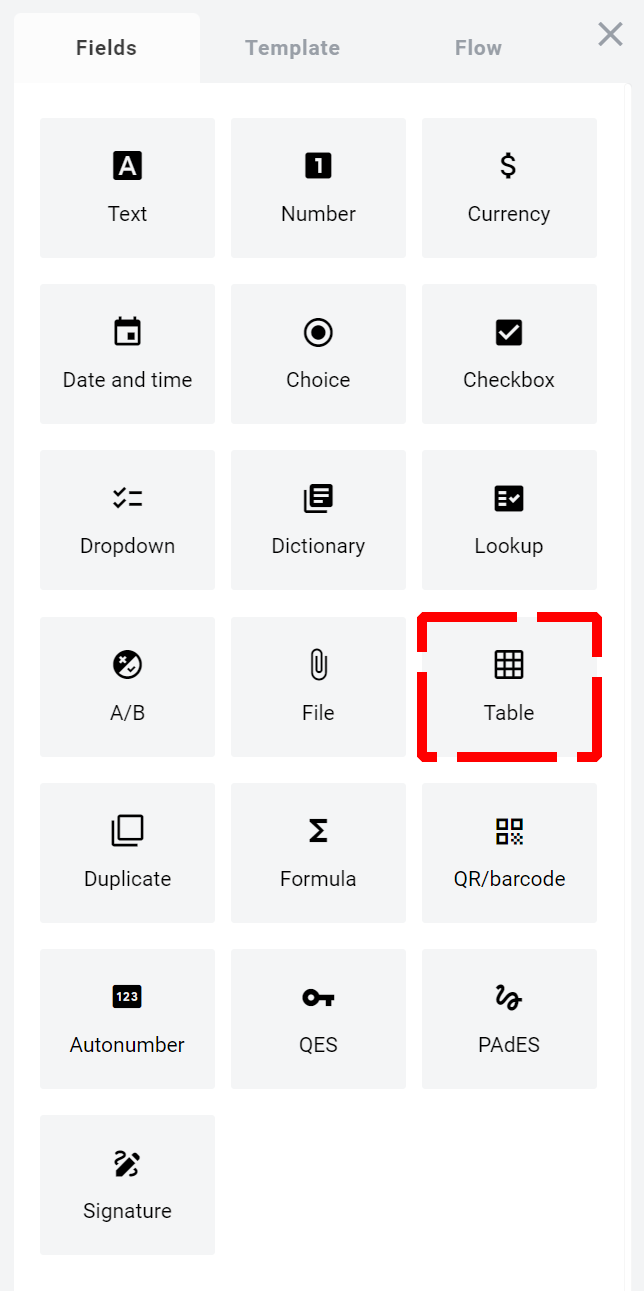
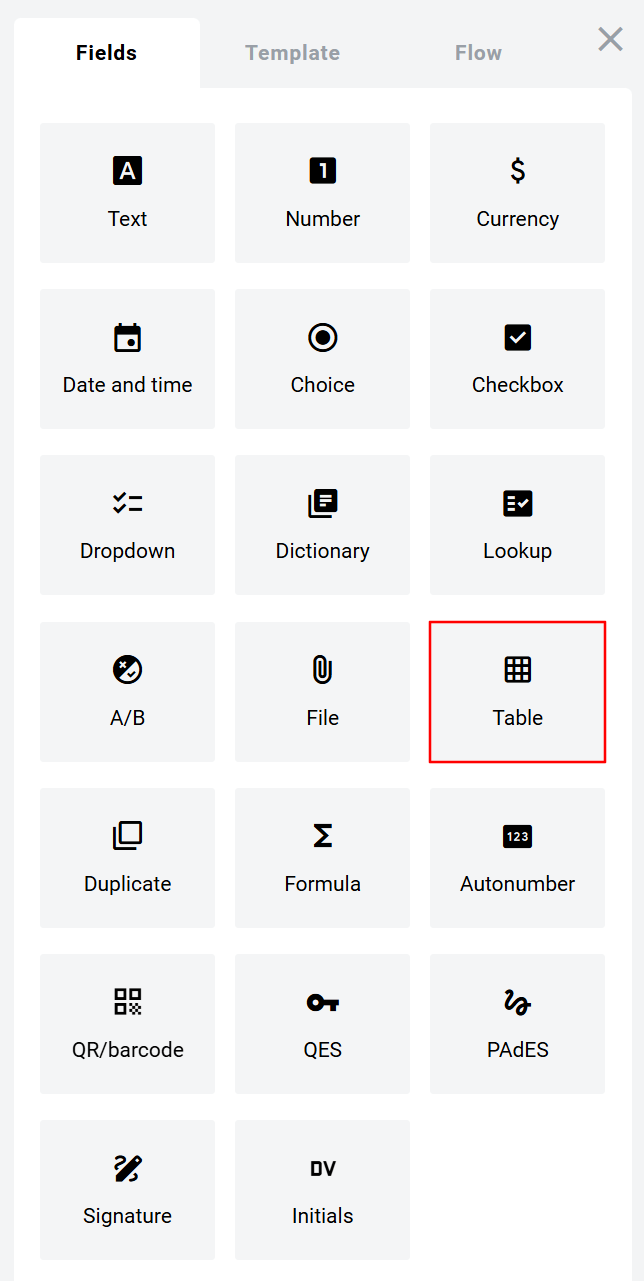
Initials field

diff --git a/docs/source/pages/howToWorkWithPlatform/mainApplication/templateList/templateManagement/documentManagementOnTemplate/fields/signature/signature.rst b/docs/source/pages/howToWorkWithPlatform/mainApplication/templateList/templateManagement/documentManagementOnTemplate/fields/signature/signature.rst
@@ -9,22 +9,22 @@ This field allows you to place an e-ink signature on the document.
 How to add signature field to the document
 ==========================================
 
-1. To add field to the document, use one of field adding methods with field icon in the Fields tab of template editor menu.
+1. To add field to the document, use one of field adding methods with field icon in the Fields tab of template editor menu
 
 .. image:: pic_signature/signatureIcon.png
    :width: 600
    :align: center
 
-2. Field creation form will appear, where you should set field attributes.
+2. Field creation form will appear, where you should set field attributes
 
 .. image:: pic_signature/signatureCreate.png
    :width: 600
    :align: center
 
 3. Name - this is a name of a field
-4. Role name - this is a role which will be assgined to fill this field.
-5. Placeholder - this text will be shown in the text box before anything is filled in (can be left empty, field name will be used instead).
-6. Show signature details - displaying signature details on the envelope. If enabled, there will be the date, mailbox or email address of the signer, signature hash, and 'Signed by [instance name]'. If disabled, only the signature hash and and 'Signed by [instance name]' will be shown.
+4. Role name - this is a role which will be assgined to fill this field
+5. Placeholder - this text will be shown inside the field before it is filled in (can be left empty; field`s name will be used instead)
+6. Show signature details - displaying signature details on the envelope. If enabled, there will be the date, mailbox or email address of the signer, signature hash, and 'Signed by [instance name]'. If disabled, only the signature hash and and 'Signed by [instance name]' will be shown
 
 When all attributes are set, you can click "Save" button and field will be added. You can click field to see its properties and update them. Also you can delete the field in same menu.
 
@@ -35,14 +35,14 @@ When all attributes are set, you can click "Save" button and field will be added
 How to fill a signature field in the envelope
 =============================================
 
-1. Open envelope where signature field is located.
-2. Click on signature field
+1. Open envelope where signature field is located
+2. Click on the signature field
 
 .. image:: pic_signature/signatureEnvelope.png
    :width: 600
    :align: center
 
-3. Window will appear.
+3. Window will appear
 
 .. image:: pic_signature/signatureDraw.png
    :width: 600
@@ -50,15 +50,15 @@ How to fill a signature field in the envelope
 
 .. note:: If you have saved e-ink signature in your profile settings page, window will not open and signature will be automatically applied.
 
-4. Draw your signature on the empty area by pressing left side on the mouse and dragging it around. You have to draw at least 0.5 sec to complete validation of the field. Note that you can change color or input text instead of drawing on Text tab.
+4. Draw your signature on the empty area by pressing left side on the mouse and dragging it around. You have to draw at least 0.5 sec to complete validation of the field. Note that you can change color or input text instead of drawing on Text tab
 
 .. image:: pic_signature/signatureDrawn.png
    :width: 600
    :align: center
 
-5. You can reset drawing area with "Clear" button.
-6. Click "Sign" to insert your signature to the field (can't be empty) and you will see your signature in the document.
-7. Under the signature, you will see its details, depending on whether the "Show signature details" toggle was enabled or not on the template. 
+5. You can reset drawing area with "Clear" button
+6. Click "Sign" to insert your signature to the field (can't be empty) and you will see your signature in the document
+7. Under the signature, you will see its details, depending on whether the "Show signature details" toggle was enabled or not on the template
 
 .. note:: If toggle was enabled - there will be displayed signature hash and 'Signed by [instance name]' and reserved space for date and email address of the signer (it will appear on the document after sending the envelope). If toggle was disabled there will be just signature hash and 'Signed by [instance name]'. 
 
@@ -72,4 +72,4 @@ How to fill a signature field in the envelope
    :width: 600
    :align: center
 
-8. Signature can be changed by clicking on the picture of your signature and repeating steps 3, 4 and 6.
+8. Signature can be changed by clicking on the picture of your signature and repeating steps 3, 4, and 6

diff --git a/docs/source/pages/howToWorkWithPlatform/mainApplication/templateList/templateManagement/documentManagementOnTemplate/fields/initials/initials.rst b/docs/source/pages/howToWorkWithPlatform/mainApplication/templateList/templateManagement/documentManagementOnTemplate/fields/initials/initials.rst
@@ -1,0 +1,41 @@
+==============
+Initials field
+==============
+
+This field allows you to place your initials on the document.
+
+.. hint:: This field can be added to structured and PDF documents.
+
+How to add initials field to the document
+=========================================
+
+1. To add field to the document, use one of field adding methods with field icon in the Fields tab of template editor menu
+
+.. image:: pic_initials/initialsIcon.png
+   :width: 600
+   :align: center
+
+2. Field creation form will appear, where you should set field attributes
+
+.. image:: pic_initials/initialsCreate.png
+   :width: 600
+   :align: center
+
+3. Name - this is a name of a field
+4. Role name - this is a role which will be assgined to fill this field
+5. Placeholder - this text will be shown inside the field before it is filled in (can be left empty; field`s name will be used instead)
+
+When all attributes are set, you can click "Save" button and field will be added. You can click field to see its properties and update them. Also you can delete the field in same menu.
+
+.. image:: pic_initials/initialsEdit.png
+   :width: 600
+   :align: center
+
+How to fill an initials field in the envelope
+=============================================
+
+1. Open envelope where initials field is located
+2. Click on the initials field
+3. Initials will be automatically generated from your first and last name specified in your user profile and set in the field (if you already specified your inityials before, they will be used)
+
+.. note:: If you want to edit your initials, you can click on the filled in initials field. Initials drawing window similar to signature drawing window will open.

diff --git a/docs/source/pages/howToWorkWithPlatform/mainApplication/templateList/templateManagement/documentManagementOnTemplate/fields/dictionary/dictionary.rst b/docs/source/pages/howToWorkWithPlatform/mainApplication/templateList/templateManagement/documentManagementOnTemplate/fields/dictionary/dictionary.rst
@@ -23,7 +23,7 @@ How to add dictionary field to the document
 
 3. Name - this is a name of a field
 4. Role name - this is a role which will be assgined to fill this field
-5. Placeholder - this text will be shown in the input box before anything is filled in (can be left empty, field name will be used instead)
+5. Placeholder - this text will be shown inside the field before it is filled in (can be left empty; field`s name will be used instead)
 6. Optional - this attribute specifies if this field is mandatory to fill
 7. Allow custom values - this attribute specifies if field will allow free text input besides selection from predefined values
 8. Search - this attribute specifies if this field should be eligible for mailbox page search
@@ -40,7 +40,7 @@ How to add dictionary field to the document
 .. note:: Value from this column will be used to find a matching row in a column selected in dictionary during envelope processing flow.
 
 13. Filter by role mailbox - this attribute specifies if filtering should be applied by role (if enabled) or by field value (if disabled)
-14. Field name (changes to role name if previous attribute is enabled) - field which will be used to specify a row by value from column selected in column name (13).
+14. Field name (changes to role name if previous attribute is enabled) - field which will be used to specify a row by value from column selected in column name (13)
 
 .. note:: If filtering by role is enabled and field becomes role name selector, it selects a role mailbox UUID of which will be used to find a matching row in dictionary. In this case, column with mailbox UUIDs should be selected in column name (13) field for matching.
 

diff --git a/docs/source/pages/howToWorkWithPlatform/mainApplication/userProfile/userProfile.rst b/docs/source/pages/howToWorkWithPlatform/mainApplication/userProfile/userProfile.rst
@@ -9,7 +9,7 @@ Settings page
 =============
 
 .. image:: pic_userprofile/tabSettings.png
-   :width: 600
+   :width: 900
    :align: center
 
 1. First name
@@ -22,8 +22,9 @@ Settings page
 8. Email (can not be changed, only copied)
 9. Auto deposit mailbox - specifies which mailbox will be used for incoming envelopes. If disabled - you will have to manually specify mailbox for each incoming envelope
 10. Signature settings - here you can create or update your e-ink signature
-11. Register personal account
-12. Register company account
+11. Initials settings - here you can create or update your initials
+12. Register personal account
+13. Register company account
 
 Do not forget to click on Save changes button after editing anything on this page
 
@@ -102,7 +103,7 @@ Forwarding page
 .. note:: This functionality will be disabled if you do not have 2012 mailbox level permission (Delegate envelopes).
 
 .. image:: pic_userprofile/tabForwarding.png
-   :width: 600
+   :width: 900
    :align: center
 
 In this section you can configure automatic forwarding of all incoming envelopes. To do so:
@@ -122,7 +123,7 @@ Danger zone page
 This page allows you to delete your user account. To open user profile page navigate to https://platform_address/profile?activeTab=dangerzone
 
 .. image:: pic_userprofile/tabDangerZone.png
-   :width: 600
+   :width: 900
    :align: center
 	
 .. note:: Ability to remove own user profile can be restricted in instance settings. In such case there will be no Danger zone tab on Profile information page.

diff --git a/docs/source/pages/howToWorkWithPlatform/mainApplication/templateList/templateManagement/documentManagementOnTemplate/fields/formula/formula.rst b/docs/source/pages/howToWorkWithPlatform/mainApplication/templateList/templateManagement/documentManagementOnTemplate/fields/formula/formula.rst
@@ -40,9 +40,9 @@ How to add formula field to the document
    :align: center
 
 3. Name - this is a name of a field
-4. Placeholder - this text will be shown in the input box before anything is filled in (can be left empty, field name will be used instead)
+4. Placeholder - this text will be shown inside the field before it is filled in (can be left empty; field`s name will be used instead)
 5. Operation - type of operation which will be performed with arguments
-6. Argument (1, 2 and so on, appears after operation is selected) - arguments which will be used for calculation. They are parsed in strict order from first to last. If you will click on argument input, dropdown selector with available fields will appear. Static values can be typed in directly as well.
+6. Argument (1, 2 and so on, appears after operation is selected) - arguments which will be used for calculation. They are parsed in strict order from first to last. If you will click on argument input, dropdown selector with available fields will appear. Static values can be typed in directly as well
 
 .. note:: You can add more then 2 default arguments by clicking "+ add argument" link
 

diff --git a/docs/source/pages/howToWorkWithPlatform/mainApplication/templateList/templateManagement/documentManagementOnTemplate/fields/dropdown/dropdown.rst b/docs/source/pages/howToWorkWithPlatform/mainApplication/templateList/templateManagement/documentManagementOnTemplate/fields/dropdown/dropdown.rst
@@ -23,7 +23,7 @@ How to add dropdown field to the document
 
 3. Name - this is a name of a field
 4. Role name - this is a role which will be assgined to fill this field
-5. Placeholder - this text will be shown in the input box before anything is filled in (can be left empty, field name will be used instead)
+5. Placeholder - this text will be shown inside the field before it is filled in (can be left empty; field`s name will be used instead)
 6. Optional - this attribute specifies if this field is mandatory to fill
 7. Multiselect - this attribute specifies if multiple values can be selected (can not be enabled together with Allow custom value attribute)
 8. Allow custom values - this attribute specifies if field will allow free text input besides selection from predefined values (can not be enabled together with Multiselect attribute)

diff --git a/docs/source/pages/howToWorkWithPlatform/mainApplication/templateList/templateManagement/documentManagementOnTemplate/fields/file/file.rst b/docs/source/pages/howToWorkWithPlatform/mainApplication/templateList/templateManagement/documentManagementOnTemplate/fields/file/file.rst
@@ -23,7 +23,7 @@ How to add file field to the document
 
 3. Name - this is a name of a field
 4. Role name - this is a role which will be assgined to fill this field
-5. Placeholder - this text will be shown in the input box before anything is filled in (can be left empty, field name will be used instead)
+5. Placeholder - this text will be shown inside the field before it is filled in (can be left empty; field`s name will be used instead)
 6. Optional - this attribute specifies if this field is mandatory to fill
 7. File extension - this attribute specifies file extensions which will be allowed by field. Next options are available:
    1. All: .pdf, .doc, .docx, .xls, .xlsx, .xlsm, .xml, .dbf, .txt, .rtf, .csv, .xps, .eml, .msg, .emlx, .rpmsg, .png, .jpg, .jpeg, .tiff, .tif, .zip, .7z, .rar

diff --git a/docs/source/pages/howToWorkWithPlatform/mainApplication/templateList/templateManagement/documentManagementOnTemplate/fields/qes/qes.rst b/docs/source/pages/howToWorkWithPlatform/mainApplication/templateList/templateManagement/documentManagementOnTemplate/fields/qes/qes.rst
@@ -23,7 +23,7 @@ How to add a QES field to the document
 
 3. Name - this is a name of a field
 4. Role name - this is a role which will be assgined to fill this field
-5. Placeholder - this text will be shown in the input box before anything is filled in (can be left empty, field name will be used instead)
+5. Placeholder - this text will be shown inside the field before it is filled in (can be left empty; field`s name will be used instead)
 6. Qualified - this attribute specifies if signature will be qualified
 7. Required stamp - this attribute specifies if stamp will be required for signing
 8. TIN (becomes editable if there are other fields in the template) - this attribute restricts signing process for everyone except a person with TIN code specified in field selected below

diff --git a/docs/source/pages/howToWorkWithPlatform/mainApplication/templateList/templateManagement/documentManagementOnTemplate/fields/pades/pades.rst b/docs/source/pages/howToWorkWithPlatform/mainApplication/templateList/templateManagement/documentManagementOnTemplate/fields/pades/pades.rst
@@ -23,7 +23,7 @@ How to add PAdES field to the document
 
 3. Name - this is a name of a field
 4. Role name - this is a role which will be assgined to fill this field
-5. Placeholder - this text will be shown in the text box before anything is filled in (can be left empty, field name will be used instead)
+5. Placeholder - this text will be shown inside the field before it is filled in (can be left empty; field`s name will be used instead)
 6. Qualified - this attribute specifies if signature will be qualified
 7. TIN (becomes editable if there are other fields in the template) - this attribute restricts signing process for everyone except a person with TIN code specified in field selected below
 8. Document (appears if TIN is enabled) - document where TIN field is placed

diff --git a/docs/source/pages/howToWorkWithPlatform/mainApplication/templateList/templateManagement/documentManagementOnTemplate/fields/currency/currency.rst b/docs/source/pages/howToWorkWithPlatform/mainApplication/templateList/templateManagement/documentManagementOnTemplate/fields/currency/currency.rst
@@ -23,7 +23,7 @@ How to add currency field to the document
 
 3. Name - this is a name of a field
 4. Role name - this is a role which will be assgined to fill this field
-5. Placeholder - this text will be shown in the input box before anything is filled in (can be left empty, field name will be used instead)
+5. Placeholder - this text will be shown inside the field before it is filled in (can be left empty; field`s name will be used instead)
 6. Optional - this attribute specifies if this field is mandatory to fill
 7. Search - this attribute specifies if this field should be eligible for mailbox page search
 8. Adapt to the local format - this attribute specifies if numbers will be formatted according to regional standard

diff --git a/docs/source/pages/howToWorkWithPlatform/mainApplication/templateList/templateManagement/documentManagementOnTemplate/fields/number/number.rst b/docs/source/pages/howToWorkWithPlatform/mainApplication/templateList/templateManagement/documentManagementOnTemplate/fields/number/number.rst
@@ -23,7 +23,7 @@ How to add number field to the document
 
 3. Name - this is a name of a field
 4. Role name - this is a role which will be assgined to fill this field
-5. Placeholder - this text will be shown in the input box before anything is filled in (can be left empty, field name will be used instead)
+5. Placeholder - this text will be shown inside the field before it is filled in (can be left empty; field`s name will be used instead)
 6. Optional - this attribute specifies if this field is mandatory to fill
 7. Search - this attribute specifies if this field should be eligible for mailbox page search
 8. Adapt to the local format - this attribute specifies if numbers will be formatted according to regional standard

diff --git a/docs/source/pages/howToWorkWithPlatform/mainApplication/templateList/templateManagement/documentManagementOnTemplate/fields/dateAndTime/dateAndTime.rst b/docs/source/pages/howToWorkWithPlatform/mainApplication/templateList/templateManagement/documentManagementOnTemplate/fields/dateAndTime/dateAndTime.rst
@@ -23,7 +23,7 @@ How to add date and time field to the document
 
 3. Name - this is a name of a field
 4. Role name - this is a role which will be assgined to fill this field
-5. Placeholder - this text will be shown in the input box before anything is filled in (can be left empty, field name will be used instead)
+5. Placeholder - this text will be shown inside the field before it is filled in (can be left empty; field`s name will be used instead)
 6. Optional - this attribute specifies if this field is mandatory to fill
 7. Time - this attribute specifies if time selector will be added to calendar
 8. Search - this attribute specifies if this field should be eligible for mailbox page search
